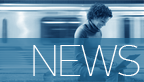
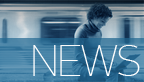
lider

Changed region(s): [[0.0, 0.0, 1.0, 0.3902]]

diff --git a/public/stylesheets/application.css b/public/stylesheets/application.css
@@ -423,7 +423,7 @@ h1 .newsdate{
 
 .jcarousel-skin-tango .jcarousel-item {
     width: 182px;
-    height: 100px;
+    height: 112px;
 }
 
 .jcarousel-skin-tango .jcarousel-item-horizontal {
